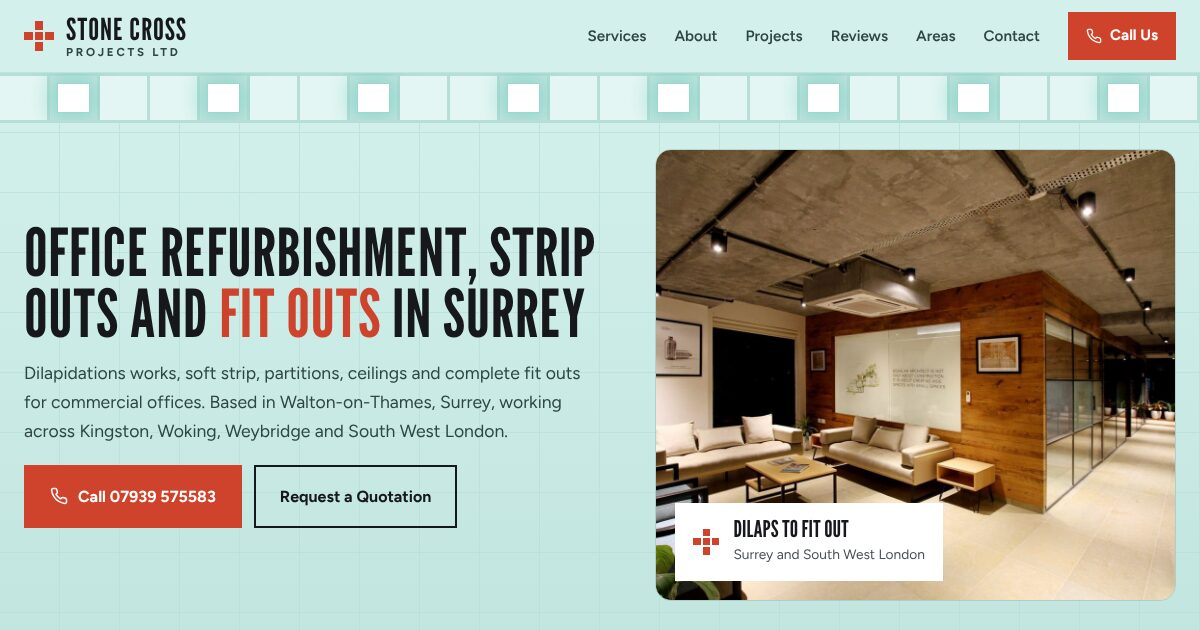
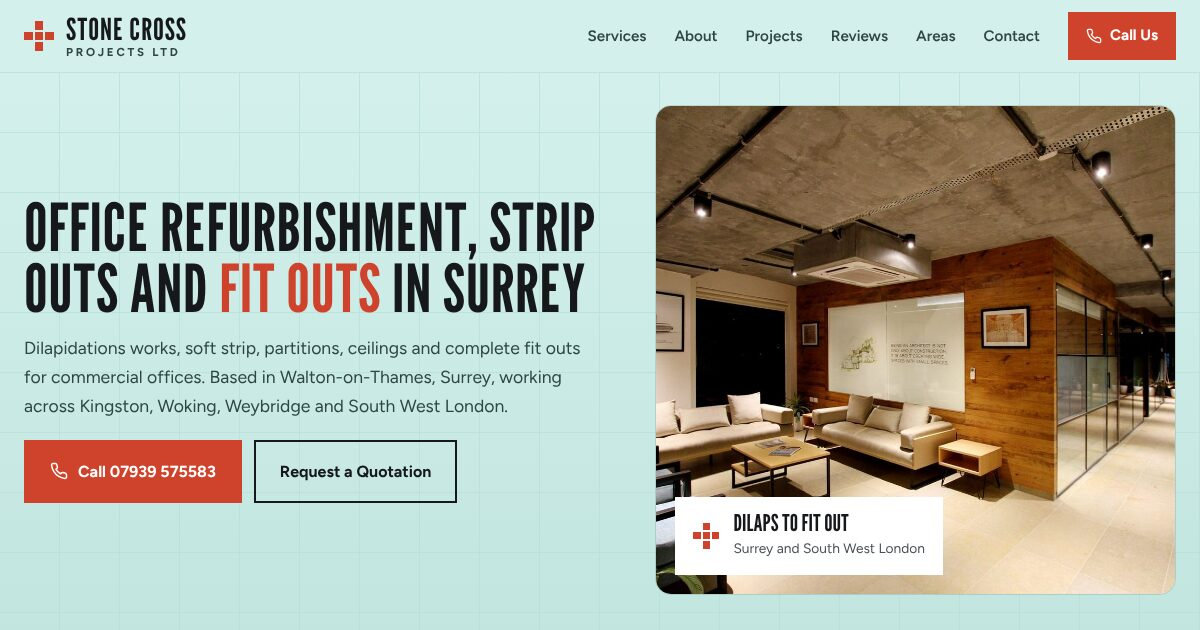
Stone Cross Projects: remove the animated ceiling strip from the top of the hero

diff --git a/stone-cross-projects/index.html b/stone-cross-projects/index.html
@@ -99,13 +99,7 @@ svg{flex-shrink:0}
 .hero{position:relative;background-color:var(--fold);color:var(--ink);display:flex;flex-direction:column;overflow:hidden;
   background-image:linear-gradient(var(--red-line) 1px,transparent 1px),linear-gradient(90deg,var(--red-line) 1px,transparent 1px);background-size:60px 60px;background-position:-1px -1px}
 .hero::after{content:"";position:absolute;inset:0;background:linear-gradient(180deg,rgba(211,240,236,0) 0%,rgba(183,222,215,.6) 100%);pointer-events:none}
-.ceiling{position:relative;z-index:2;display:flex;height:64px;border-bottom:3px solid var(--red-deep);background:var(--red-deep);gap:3px;padding:3px 0 0;overflow:hidden}
-.tile{flex:0 0 61px;height:58px;background:var(--red-hi);position:relative;transform:translateY(-70px);animation:drop .45s cubic-bezier(.3,1.35,.5,1) forwards}
-.tile.panel{background:var(--panel)}
-.tile.panel::before{content:"";position:absolute;inset:7px;background:var(--led);opacity:0;box-shadow:0 0 22px 6px var(--glass-glow),0 0 0 1px #9fd6cd inset;animation:lit 7s ease-in-out infinite}
-@keyframes drop{to{transform:translateY(0)}}
-@keyframes lit{0%,4%{opacity:0}9%,62%{opacity:1}70%,100%{opacity:.18}}
-.hero-grid{position:relative;z-index:2;display:grid;grid-template-columns:1.05fr .95fr;gap:56px;align-items:center;height:clamp(520px,calc(100vh - 136px),720px);padding-top:40px;padding-bottom:48px}
+.hero-grid{position:relative;z-index:2;display:grid;grid-template-columns:1.05fr .95fr;gap:56px;align-items:center;height:clamp(520px,calc(100vh - 72px),720px);padding-top:48px;padding-bottom:56px}
 .hero-copy{min-width:0}
 .hero h1{color:var(--ink);font-size:clamp(3.4rem,min(6.2vw,10.5vh),6rem);line-height:.92;letter-spacing:.01em;opacity:0;animation:fadeUp .7s ease forwards .15s}
 .hero h1 .k{color:var(--red)}
@@ -286,9 +280,7 @@ footer a:hover{color:#fff}
 .js .reveal.in{opacity:1;transform:none}
 
 @media (max-height:760px) and (min-width:881px){
-  .ceiling{height:50px}
-  .tile{flex-basis:47px;height:44px}
-  .hero-grid{height:clamp(480px,calc(100vh - 122px),720px);padding-top:26px;padding-bottom:30px}
+  .hero-grid{height:clamp(480px,calc(100vh - 72px),720px);padding-top:32px;padding-bottom:36px}
   .lede{margin-top:14px}
   .hero-cta{margin-top:20px}
 }
@@ -342,8 +334,6 @@ footer a:hover{color:#fff}
 }
 @media (prefers-reduced-motion:reduce){
   *,*::before,*::after{animation-duration:.01ms!important;animation-delay:0s!important;transition-duration:.01ms!important}
-  .tile{transform:none}
-  .tile.panel::before{opacity:1}
 }
 </style>
 </head>
@@ -379,7 +369,6 @@ footer a:hover{color:#fff}
 
 <main id="top">
 <section class="hero">
-  <div class="ceiling" id="ceiling" aria-hidden="true"></div>
   <div class="hero-grid wrap">
     <div class="hero-copy">
       <h1>Office Refurbishment, Strip Outs and <span class="k">Fit Outs</span> in Surrey</h1>
@@ -575,24 +564,6 @@ footer a:hover{color:#fff}
   var loader=document.getElementById('loader');
   if(reduce){ loader.classList.add('done'); }
   else { setTimeout(function(){ loader.classList.add('lift'); },1950); setTimeout(function(){ loader.classList.add('done'); },2450); }
-
-  // fold ceiling: tiles drop in after the hand-off, every third is an LED panel lighting in sequence
-  var ceil=document.getElementById('ceiling'), lastW=0;
-  function drawCeil(){
-    var W=Math.round(ceil.getBoundingClientRect().width); if(!W||W===lastW) return; lastW=W;
-    ceil.innerHTML=''; var n=Math.ceil(W/44)+1, start=reduce?0:1.9;
-    for(var i=0;i<n;i++){
-      var t=document.createElement('span'); t.className='tile'+(i%3===1?' panel':'');
-      t.style.animationDelay=(start+i*.035).toFixed(3)+'s';
-      ceil.appendChild(t);
-    }
-    var css='';
-    ceil.querySelectorAll('.panel').forEach(function(p,k){ p.id='pn'+k; css+='#pn'+k+'::before{animation-delay:'+((reduce?0:2.5)+k*.16).toFixed(2)+'s}'; });
-    var st=document.getElementById('ceilCss'); if(!st){ st=document.createElement('style'); st.id='ceilCss'; document.head.appendChild(st); }
-    st.textContent=css;
-  }
-  drawCeil();
-  var rz; window.addEventListener('resize',function(){ clearTimeout(rz); rz=setTimeout(drawCeil,150); });
 
   // contact details
   var P=atob('MDc5Mzk1NzU1ODM='), Pf=atob('MDc5MzkgNTc1NTgz'), E=atob('c3RvbmVjcm9zc3Byb2plY3RzQGJ0aW50ZXJuZXQuY29t');
